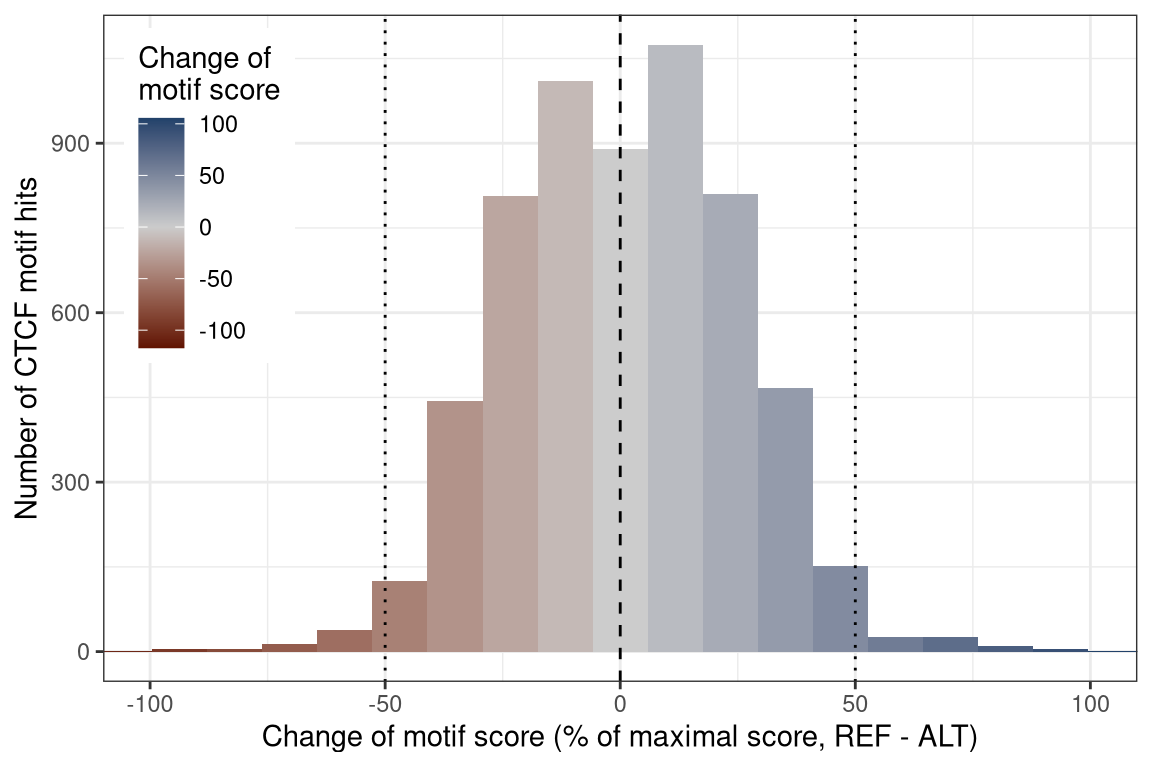
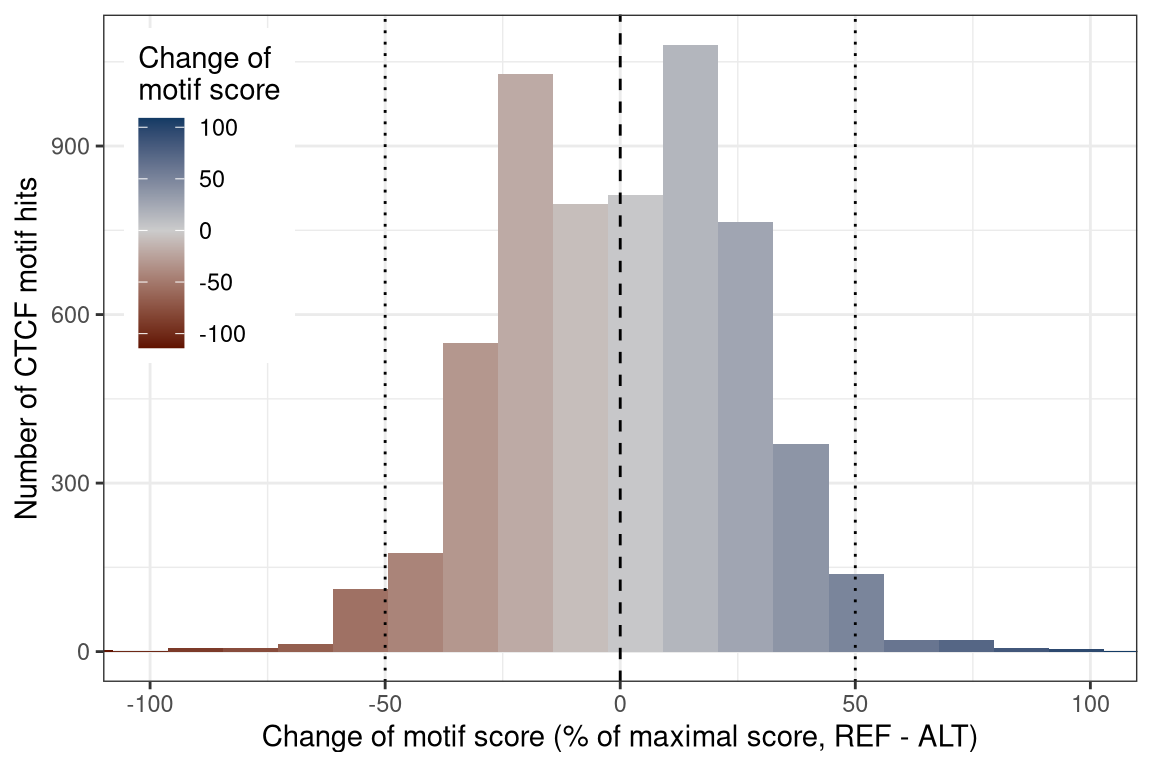
update multiple-modalities to use SingleMoleculeGenomicsIO

diff --git a/docs/multiple-modalities.html b/docs/multiple-modalities.html
@@ -278,7 +278,7 @@ div.csl-indent {
 <summary>Show/hide code</summary>
 <div class="sourceCode cell-code" id="cb1"><pre class="sourceCode r code-with-copy"><code class="sourceCode r"><span id="cb1-1"><a href="#cb1-1" aria-hidden="true" tabindex="-1"></a><span class="co"># Packages</span></span>
 <span id="cb1-2"><a href="#cb1-2" aria-hidden="true" tabindex="-1"></a>BSgenomeName <span class="ot">&lt;-</span> <span class="st">"BSgenome.Mmusculus.GENCODE.GRCm39.gencodeM34"</span></span>
-<span id="cb1-3"><a href="#cb1-3" aria-hidden="true" tabindex="-1"></a><span class="fu">library</span>(footprintR)</span>
+<span id="cb1-3"><a href="#cb1-3" aria-hidden="true" tabindex="-1"></a><span class="fu">library</span>(SingleMoleculeGenomicsIO)</span>
 <span id="cb1-4"><a href="#cb1-4" aria-hidden="true" tabindex="-1"></a><span class="fu">library</span>(ggplot2)</span>
 <span id="cb1-5"><a href="#cb1-5" aria-hidden="true" tabindex="-1"></a><span class="fu">library</span>(patchwork)</span>
 <span id="cb1-6"><a href="#cb1-6" aria-hidden="true" tabindex="-1"></a><span class="fu">library</span>(dplyr)</span>
@@ -735,140 +735,141 @@ Figure&nbsp;8.4
 <div class="sourceCode cell-code" id="cb11"><pre class="sourceCode r code-with-copy"><code class="sourceCode r"><span id="cb11-1"><a href="#cb11-1" aria-hidden="true" tabindex="-1"></a>sessioninfo<span class="sc">::</span><span class="fu">session_info</span>(<span class="at">info =</span> <span class="st">"packages"</span>)</span></code><button title="Copy to Clipboard" class="code-copy-button"><i class="bi"></i></button></pre></div>
 </details>
 <div class="cell-output cell-output-stdout">
-<pre><code>═ Session info ═══════════════════════════════════════════════════════════════
-─ Packages ───────────────────────────────────────────────────────────────────
+<pre><code>═ Session info ═══════════════════════════════════════════════════════════════════════════════════════════════════════
+─ Packages ───────────────────────────────────────────────────────────────────────────────────────────────────────────
  package                                      * version   date (UTC) lib source
- abind                                        * 1.4-8     2024-09-12 [1] CRAN (R 4.5.0)
- AnnotationDbi                                  1.70.0    2025-04-15 [1] Bioconductor 3.21 (R 4.5.0)
- backports                                      1.5.0     2024-05-23 [1] CRAN (R 4.5.0)
- base64enc                                      0.1-3     2015-07-28 [1] CRAN (R 4.5.0)
- Biobase                                      * 2.68.0    2025-04-15 [1] Bioconductor 3.21 (R 4.5.0)
- BiocFileCache                                * 2.16.0    2025-04-15 [1] Bioconductor 3.21 (R 4.5.0)
- BiocGenerics                                 * 0.54.0    2025-04-15 [1] Bioconductor 3.21 (R 4.5.0)
- BiocIO                                       * 1.18.0    2025-04-15 [1] Bioconductor 3.21 (R 4.5.0)
- BiocParallel                                   1.42.1    2025-06-01 [1] Bioconductor 3.21 (R 4.5.0)
- Biostrings                                   * 2.76.0    2025-04-15 [1] Bioconductor 3.21 (R 4.5.0)
- bit                                            4.6.0     2025-03-06 [1] CRAN (R 4.5.0)
- bit64                                          4.6.0-1   2025-01-16 [1] CRAN (R 4.5.0)
- bitops                                         1.0-9     2024-10-03 [1] CRAN (R 4.5.0)
- blob                                           1.2.4     2023-03-17 [1] CRAN (R 4.5.0)
- broom                                          1.0.8     2025-03-28 [1] CRAN (R 4.5.0)
- BSgenome                                     * 1.76.0    2025-04-15 [1] Bioconductor 3.21 (R 4.5.0)
- BSgenome.Mmusculus.GENCODE.GRCm39.gencodeM34 * 0.1.0     2025-04-17 [1] Bioconductor
- cachem                                         1.1.0     2024-05-16 [1] CRAN (R 4.5.0)
- car                                            3.1-3     2024-09-27 [1] CRAN (R 4.5.0)
- carData                                        3.0-5     2022-01-06 [1] CRAN (R 4.5.0)
- caTools                                        1.18.3    2024-09-04 [1] CRAN (R 4.5.0)
- checkmate                                      2.3.2     2024-07-29 [1] CRAN (R 4.5.0)
- cli                                            3.6.5     2025-04-23 [1] CRAN (R 4.5.0)
- cluster                                        2.1.8.1   2025-03-12 [2] CRAN (R 4.5.0)
- codetools                                      0.2-20    2024-03-31 [2] CRAN (R 4.5.0)
- colorspace                                     2.1-1     2024-07-26 [1] CRAN (R 4.5.0)
- crayon                                         1.5.3     2024-06-20 [1] CRAN (R 4.5.0)
- curl                                           6.3.0     2025-06-06 [1] CRAN (R 4.5.0)
- data.table                                     1.17.4    2025-05-26 [1] CRAN (R 4.5.0)
- DBI                                            1.2.3     2024-06-02 [1] CRAN (R 4.5.0)
- dbplyr                                       * 2.5.0     2024-03-19 [1] CRAN (R 4.5.0)
- DelayedArray                                   0.34.1    2025-04-17 [1] Bioconductor 3.21 (R 4.5.0)
- dichromat                                      2.0-0.1   2022-05-02 [1] CRAN (R 4.5.0)
- digest                                         0.6.37    2024-08-19 [1] CRAN (R 4.5.0)
- DirichletMultinomial                           1.50.0    2025-04-15 [1] Bioconductor 3.21 (R 4.5.0)
- dplyr                                        * 1.1.4     2023-11-17 [1] CRAN (R 4.5.0)
- evaluate                                       1.0.3     2025-01-10 [1] CRAN (R 4.5.0)
- farver                                         2.1.2     2024-05-13 [1] CRAN (R 4.5.0)
- fastmap                                        1.2.0     2024-05-15 [1] CRAN (R 4.5.0)
- filelock                                       1.0.3     2023-12-11 [1] CRAN (R 4.5.0)
- footprintR                                   * 0.3.5     2025-06-04 [1] Github (fmicompbio/footprintR@612f713)
- forcats                                      * 1.0.0     2023-01-29 [1] CRAN (R 4.5.0)
- foreign                                        0.8-90    2025-03-31 [2] CRAN (R 4.5.0)
- Formula                                        1.2-5     2023-02-24 [1] CRAN (R 4.5.0)
- generics                                     * 0.1.4     2025-05-09 [1] CRAN (R 4.5.0)
- GenomeInfoDb                                 * 1.44.0    2025-04-15 [1] Bioconductor 3.21 (R 4.5.0)
- GenomeInfoDbData                               1.2.14    2025-04-17 [1] Bioconductor
- GenomicAlignments                            * 1.44.0    2025-04-15 [1] Bioconductor 3.21 (R 4.5.0)
- GenomicFeatures                                1.60.0    2025-04-15 [1] Bioconductor 3.21 (R 4.5.0)
- GenomicRanges                                * 1.60.0    2025-04-15 [1] Bioconductor 3.21 (R 4.5.0)
- ggforce                                        0.4.2     2024-02-19 [1] CRAN (R 4.5.0)
- ggplot2                                      * 3.5.2     2025-04-09 [1] CRAN (R 4.5.0)
- ggpubr                                       * 0.6.0     2023-02-10 [1] CRAN (R 4.5.0)
- ggsignif                                       0.6.4     2022-10-13 [1] CRAN (R 4.5.0)
- glue                                           1.8.0     2024-09-30 [1] CRAN (R 4.5.0)
- gridExtra                                      2.3       2017-09-09 [1] CRAN (R 4.5.0)
- gtable                                         0.3.6     2024-10-25 [1] CRAN (R 4.5.0)
- gtools                                         3.9.5     2023-11-20 [1] CRAN (R 4.5.0)
- Hmisc                                        * 5.2-3     2025-03-16 [1] CRAN (R 4.5.0)
- htmlTable                                      2.4.3     2024-07-21 [1] CRAN (R 4.5.0)
- htmltools                                      0.5.8.1   2024-04-04 [1] CRAN (R 4.5.0)
- htmlwidgets                                    1.6.4     2023-12-06 [1] CRAN (R 4.5.0)
- httr                                           1.4.7     2023-08-15 [1] CRAN (R 4.5.0)
- IRanges                                      * 2.42.0    2025-04-15 [1] Bioconductor 3.21 (R 4.5.0)
- JASPAR2024                                   * 0.99.7    2024-11-13 [1] Bioconductor 3.21 (R 4.5.0)
- jsonlite                                       2.0.0     2025-03-27 [1] CRAN (R 4.5.0)
- KEGGREST                                       1.48.0    2025-04-15 [1] Bioconductor 3.21 (R 4.5.0)
- knitr                                          1.50      2025-03-16 [1] CRAN (R 4.5.0)
- labeling                                       0.4.3     2023-08-29 [1] CRAN (R 4.5.0)
- lattice                                        0.22-7    2025-04-02 [1] CRAN (R 4.5.0)
- lifecycle                                      1.0.4     2023-11-07 [1] CRAN (R 4.5.0)
- magrittr                                       2.0.3     2022-03-30 [1] CRAN (R 4.5.0)
- MASS                                           7.3-65    2025-02-28 [2] CRAN (R 4.5.0)
- Matrix                                       * 1.7-3     2025-03-11 [2] CRAN (R 4.5.0)
- MatrixGenerics                               * 1.20.0    2025-04-15 [1] Bioconductor 3.21 (R 4.5.0)
- matrixStats                                  * 1.5.0     2025-01-07 [1] CRAN (R 4.5.0)
- memoise                                        2.0.1     2021-11-26 [1] CRAN (R 4.5.0)
- nnet                                           7.3-20    2025-01-01 [2] CRAN (R 4.5.0)
- patchwork                                    * 1.3.0     2024-09-16 [1] CRAN (R 4.5.0)
- pillar                                         1.10.2    2025-04-05 [1] CRAN (R 4.5.0)
- pkgconfig                                      2.0.3     2019-09-22 [1] CRAN (R 4.5.0)
- png                                            0.1-8     2022-11-29 [1] CRAN (R 4.5.0)
- polyclip                                       1.10-7    2024-07-23 [1] CRAN (R 4.5.0)
- purrr                                          1.0.4     2025-02-05 [1] CRAN (R 4.5.0)
- pwalign                                        1.4.0     2025-04-15 [1] Bioconductor 3.21 (R 4.5.0)
- R6                                             2.6.1     2025-02-15 [1] CRAN (R 4.5.0)
- RColorBrewer                                   1.1-3     2022-04-03 [1] CRAN (R 4.5.0)
- Rcpp                                           1.0.14    2025-01-12 [1] CRAN (R 4.5.0)
- RCurl                                          1.98-1.17 2025-03-22 [1] CRAN (R 4.5.0)
- restfulr                                       0.0.15    2022-06-16 [1] CRAN (R 4.5.0)
- rjson                                          0.2.23    2024-09-16 [1] CRAN (R 4.5.0)
- rlang                                          1.1.6     2025-04-11 [1] CRAN (R 4.5.0)
- rmarkdown                                      2.29      2024-11-04 [1] CRAN (R 4.5.0)
- rpart                                          4.1.24    2025-01-07 [2] CRAN (R 4.5.0)
- Rsamtools                                    * 2.24.0    2025-04-15 [1] Bioconductor 3.21 (R 4.5.0)
- RSQLite                                        2.4.1     2025-06-08 [1] CRAN (R 4.5.0)
- rstatix                                        0.7.2     2023-02-01 [1] CRAN (R 4.5.0)
- rstudioapi                                     0.17.1    2024-10-22 [1] CRAN (R 4.5.0)
- rtracklayer                                  * 1.68.0    2025-04-15 [1] Bioconductor 3.21 (R 4.5.0)
- S4Arrays                                     * 1.8.1     2025-06-01 [1] Bioconductor 3.21 (R 4.5.0)
- S4Vectors                                    * 0.46.0    2025-04-15 [1] Bioconductor 3.21 (R 4.5.0)
- scales                                         1.4.0     2025-04-24 [1] CRAN (R 4.5.0)
- seqLogo                                        1.74.0    2025-04-15 [1] Bioconductor 3.21 (R 4.5.0)
- sessioninfo                                    1.2.3     2025-02-05 [1] CRAN (R 4.5.0)
- SparseArray                                  * 1.8.0     2025-04-15 [1] Bioconductor 3.21 (R 4.5.0)
- stringdist                                   * 0.9.15    2025-01-10 [1] CRAN (R 4.5.0)
- stringi                                        1.8.7     2025-03-27 [1] CRAN (R 4.5.0)
- stringr                                        1.5.1     2023-11-14 [1] CRAN (R 4.5.0)
- SummarizedExperiment                         * 1.38.1    2025-04-30 [1] Bioconductor 3.21 (R 4.5.0)
- TFBSTools                                    * 1.46.0    2025-04-15 [1] Bioconductor 3.21 (R 4.5.0)
- TFMPvalue                                      0.0.9     2022-10-21 [1] CRAN (R 4.5.0)
- tibble                                         3.3.0     2025-06-08 [1] CRAN (R 4.5.0)
- tidyr                                          1.3.1     2024-01-24 [1] CRAN (R 4.5.0)
- tidyselect                                     1.2.1     2024-03-11 [1] CRAN (R 4.5.0)
- tweenr                                         2.0.3     2024-02-26 [1] CRAN (R 4.5.0)
- UCSC.utils                                     1.4.0     2025-04-15 [1] Bioconductor 3.21 (R 4.5.0)
- universalmotif                               * 1.26.2    2025-04-23 [1] Bioconductor 3.21 (R 4.5.0)
- VariantAnnotation                            * 1.54.1    2025-05-11 [1] Bioconductor 3.21 (R 4.5.0)
- vctrs                                          0.6.5     2023-12-01 [1] CRAN (R 4.5.0)
- withr                                          3.0.2     2024-10-28 [1] CRAN (R 4.5.0)
- xfun                                           0.52      2025-04-02 [1] CRAN (R 4.5.0)
- XML                                            3.99-0.18 2025-01-01 [1] CRAN (R 4.5.0)
- XVector                                      * 0.48.0    2025-04-15 [1] Bioconductor 3.21 (R 4.5.0)
- yaml                                           2.3.10    2024-07-26 [1] CRAN (R 4.5.0)
- zoo                                            1.8-14    2025-04-10 [1] CRAN (R 4.5.0)
+ abind                                        * 1.4-8     2024-09-12 [1] CRAN (R 4.5.1)
+ AnnotationDbi                                  1.72.0    2025-10-29 [1] Bioconductor 3.22 (R 4.5.1)
+ backports                                      1.5.0     2024-05-23 [1] CRAN (R 4.5.1)
+ base64enc                                      0.1-3     2015-07-28 [1] CRAN (R 4.5.1)
+ Biobase                                      * 2.70.0    2025-10-29 [1] Bioconductor 3.22 (R 4.5.1)
+ BiocFileCache                                * 3.0.0     2025-10-29 [1] Bioconductor 3.22 (R 4.5.1)
+ BiocGenerics                                 * 0.56.0    2025-10-29 [1] Bioconductor 3.22 (R 4.5.1)
+ BiocIO                                       * 1.20.0    2025-10-29 [1] Bioconductor 3.22 (R 4.5.1)
+ BiocParallel                                   1.44.0    2025-10-29 [1] Bioconductor 3.22 (R 4.5.1)
+ Biostrings                                   * 2.78.0    2025-10-29 [1] Bioconductor 3.22 (R 4.5.1)
+ bit                                            4.6.0     2025-03-06 [1] CRAN (R 4.5.1)
+ bit64                                          4.6.0-1   2025-01-16 [1] CRAN (R 4.5.1)
+ bitops                                         1.0-9     2024-10-03 [1] CRAN (R 4.5.1)
+ blob                                           1.3.0     2026-01-14 [1] CRAN (R 4.5.2)
+ broom                                          1.0.11    2025-12-04 [1] CRAN (R 4.5.2)
+ BSgenome                                     * 1.78.0    2025-10-29 [1] Bioconductor 3.22 (R 4.5.1)
+ BSgenome.Mmusculus.GENCODE.GRCm39.gencodeM34 * 0.1.0     2025-10-31 [1] Bioconductor
+ cachem                                         1.1.0     2024-05-16 [1] CRAN (R 4.5.1)
+ car                                            3.1-3     2024-09-27 [1] CRAN (R 4.5.1)
+ carData                                        3.0-5     2022-01-06 [1] CRAN (R 4.5.1)
+ caTools                                        1.18.3    2024-09-04 [1] CRAN (R 4.5.1)
+ checkmate                                      2.3.3     2025-08-18 [1] CRAN (R 4.5.1)
+ cigarillo                                      1.0.0     2025-10-29 [1] Bioconductor 3.22 (R 4.5.1)
+ cli                                            3.6.5     2025-04-23 [1] CRAN (R 4.5.1)
+ cluster                                        2.1.8.1   2025-03-12 [2] CRAN (R 4.5.2)
+ codetools                                      0.2-20    2024-03-31 [2] CRAN (R 4.5.2)
+ colorspace                                     2.1-2     2025-09-22 [1] CRAN (R 4.5.1)
+ crayon                                         1.5.3     2024-06-20 [1] CRAN (R 4.5.1)
+ curl                                           7.0.0     2025-08-19 [1] CRAN (R 4.5.1)
+ data.table                                     1.18.0    2025-12-24 [1] CRAN (R 4.5.2)
+ DBI                                            1.2.3     2024-06-02 [1] CRAN (R 4.5.1)
+ dbplyr                                       * 2.5.1     2025-09-10 [1] CRAN (R 4.5.1)
+ DelayedArray                                   0.36.0    2025-10-29 [1] Bioconductor 3.22 (R 4.5.1)
+ dichromat                                      2.0-0.1   2022-05-02 [1] CRAN (R 4.5.1)
+ digest                                         0.6.39    2025-11-19 [1] CRAN (R 4.5.2)
+ DirichletMultinomial                           1.52.0    2025-10-29 [1] Bioconductor 3.22 (R 4.5.1)
+ dplyr                                        * 1.1.4     2023-11-17 [1] CRAN (R 4.5.1)
+ evaluate                                       1.0.5     2025-08-27 [1] CRAN (R 4.5.1)
+ farver                                         2.1.2     2024-05-13 [1] CRAN (R 4.5.1)
+ fastmap                                        1.2.0     2024-05-15 [1] CRAN (R 4.5.1)
+ filelock                                       1.0.3     2023-12-11 [1] CRAN (R 4.5.1)
+ forcats                                      * 1.0.1     2025-09-25 [1] CRAN (R 4.5.1)
+ foreign                                        0.8-90    2025-03-31 [2] CRAN (R 4.5.2)
+ Formula                                        1.2-5     2023-02-24 [1] CRAN (R 4.5.1)
+ generics                                     * 0.1.4     2025-05-09 [1] CRAN (R 4.5.1)
+ GenomeInfoDb                                 * 1.46.2    2025-12-04 [1] Bioconductor 3.22 (R 4.5.2)
+ GenomicAlignments                            * 1.46.0    2025-10-29 [1] Bioconductor 3.22 (R 4.5.1)
+ GenomicFeatures                                1.62.0    2025-10-29 [1] Bioconductor 3.22 (R 4.5.1)
+ GenomicRanges                                * 1.62.1    2025-12-08 [1] Bioconductor 3.22 (R 4.5.2)
+ ggplot2                                      * 4.0.1     2025-11-14 [1] CRAN (R 4.5.2)
+ ggpubr                                       * 0.6.2     2025-10-17 [1] CRAN (R 4.5.1)
+ ggsignif                                       0.6.4     2022-10-13 [1] CRAN (R 4.5.1)
+ glue                                           1.8.0     2024-09-30 [1] CRAN (R 4.5.1)
+ gridExtra                                      2.3       2017-09-09 [1] CRAN (R 4.5.1)
+ gtable                                         0.3.6     2024-10-25 [1] CRAN (R 4.5.1)
+ gtools                                         3.9.5     2023-11-20 [1] CRAN (R 4.5.1)
+ Hmisc                                        * 5.2-5     2026-01-09 [1] CRAN (R 4.5.2)
+ htmlTable                                      2.4.3     2024-07-21 [1] CRAN (R 4.5.1)
+ htmltools                                      0.5.9     2025-12-04 [1] CRAN (R 4.5.2)
+ htmlwidgets                                    1.6.4     2023-12-06 [1] CRAN (R 4.5.1)
+ httr                                           1.4.7     2023-08-15 [1] CRAN (R 4.5.1)
+ httr2                                          1.2.2     2025-12-08 [1] CRAN (R 4.5.2)
+ IRanges                                      * 2.44.0    2025-10-29 [1] Bioconductor 3.22 (R 4.5.1)
+ JASPAR2024                                   * 0.99.7    2024-11-13 [1] Bioconductor 3.21 (R 4.5.2)
+ jsonlite                                       2.0.0     2025-03-27 [1] CRAN (R 4.5.1)
+ KEGGREST                                       1.50.0    2025-10-29 [1] Bioconductor 3.22 (R 4.5.1)
+ knitr                                          1.51      2025-12-20 [1] CRAN (R 4.5.2)
+ labeling                                       0.4.3     2023-08-29 [1] CRAN (R 4.5.1)
+ lattice                                        0.22-7    2025-04-02 [2] CRAN (R 4.5.2)
+ lifecycle                                      1.0.5     2026-01-08 [1] CRAN (R 4.5.2)
+ magrittr                                       2.0.4     2025-09-12 [1] CRAN (R 4.5.1)
+ MASS                                           7.3-65    2025-02-28 [2] CRAN (R 4.5.2)
+ Matrix                                       * 1.7-4     2025-08-28 [2] CRAN (R 4.5.2)
+ MatrixGenerics                               * 1.22.0    2025-10-29 [1] Bioconductor 3.22 (R 4.5.1)
+ matrixStats                                  * 1.5.0     2025-01-07 [1] CRAN (R 4.5.1)
+ memoise                                        2.0.1     2021-11-26 [1] CRAN (R 4.5.1)
+ nnet                                           7.3-20    2025-01-01 [2] CRAN (R 4.5.2)
+ otel                                           0.2.0     2025-08-29 [1] CRAN (R 4.5.1)
+ patchwork                                    * 1.3.2     2025-08-25 [1] CRAN (R 4.5.1)
+ pillar                                         1.11.1    2025-09-17 [1] CRAN (R 4.5.1)
+ pkgconfig                                      2.0.3     2019-09-22 [1] CRAN (R 4.5.1)
+ png                                            0.1-8     2022-11-29 [1] CRAN (R 4.5.1)
+ purrr                                          1.2.1     2026-01-09 [1] CRAN (R 4.5.2)
+ pwalign                                        1.6.0     2025-10-29 [1] Bioconductor 3.22 (R 4.5.1)
+ R6                                             2.6.1     2025-02-15 [1] CRAN (R 4.5.1)
+ rappdirs                                       0.3.4     2026-01-17 [1] CRAN (R 4.5.2)
+ RColorBrewer                                   1.1-3     2022-04-03 [1] CRAN (R 4.5.1)
+ Rcpp                                           1.1.1     2026-01-10 [1] CRAN (R 4.5.2)
+ RCurl                                          1.98-1.17 2025-03-22 [1] CRAN (R 4.5.1)
+ restfulr                                       0.0.16    2025-06-27 [1] CRAN (R 4.5.1)
+ rjson                                          0.2.23    2024-09-16 [1] CRAN (R 4.5.1)
+ rlang                                          1.1.7     2026-01-09 [1] CRAN (R 4.5.2)
+ rmarkdown                                      2.30      2025-09-28 [1] CRAN (R 4.5.1)
+ rpart                                          4.1.24    2025-01-07 [2] CRAN (R 4.5.2)
+ Rsamtools                                    * 2.26.0    2025-10-29 [1] Bioconductor 3.22 (R 4.5.1)
+ RSQLite                                        2.4.5     2025-11-30 [1] CRAN (R 4.5.2)
+ rstatix                                        0.7.3     2025-10-18 [1] CRAN (R 4.5.1)
+ rstudioapi                                     0.18.0    2026-01-16 [1] CRAN (R 4.5.2)
+ rtracklayer                                  * 1.70.1    2025-12-22 [1] Bioconductor 3.22 (R 4.5.2)
+ S4Arrays                                     * 1.10.1    2025-12-02 [1] Github (Bioconductor/S4Arrays@a4cccba)
+ S4Vectors                                    * 0.48.0    2025-10-29 [1] Bioconductor 3.22 (R 4.5.1)
+ S7                                             0.2.1     2025-11-14 [1] CRAN (R 4.5.2)
+ scales                                         1.4.0     2025-04-24 [1] CRAN (R 4.5.1)
+ Seqinfo                                      * 1.0.0     2025-10-29 [1] Bioconductor 3.22 (R 4.5.1)
+ seqLogo                                        1.76.0    2025-10-29 [1] Bioconductor 3.22 (R 4.5.1)
+ sessioninfo                                    1.2.3     2025-02-05 [1] CRAN (R 4.5.1)
+ SingleMoleculeGenomicsIO                     * 0.1.0     2026-01-29 [1] Bioconductor
+ SparseArray                                  * 1.10.8    2025-12-18 [1] Bioconductor 3.22 (R 4.5.2)
+ stringdist                                   * 0.9.17    2026-01-16 [1] CRAN (R 4.5.2)
+ stringi                                        1.8.7     2025-03-27 [1] CRAN (R 4.5.1)
+ stringr                                        1.6.0     2025-11-04 [1] CRAN (R 4.5.2)
+ SummarizedExperiment                         * 1.40.0    2025-10-29 [1] Bioconductor 3.22 (R 4.5.1)
+ TFBSTools                                    * 1.48.0    2025-10-29 [1] Bioconductor 3.22 (R 4.5.1)
+ TFMPvalue                                      1.0.0     2026-01-19 [1] CRAN (R 4.5.2)
+ tibble                                         3.3.1     2026-01-11 [1] CRAN (R 4.5.2)
+ tidyr                                          1.3.2     2025-12-19 [1] CRAN (R 4.5.2)
+ tidyselect                                     1.2.1     2024-03-11 [1] CRAN (R 4.5.1)
+ UCSC.utils                                     1.6.1     2025-12-11 [1] Bioconductor 3.22 (R 4.5.2)
+ universalmotif                               * 1.28.0    2025-10-30 [1] Bioconductor 3.22 (R 4.5.2)
+ VariantAnnotation                            * 1.56.0    2025-10-29 [1] Bioconductor 3.22 (R 4.5.1)
+ vctrs                                          0.7.1     2026-01-23 [1] CRAN (R 4.5.2)
+ withr                                          3.0.2     2024-10-28 [1] CRAN (R 4.5.1)
+ xfun                                           0.56      2026-01-18 [1] CRAN (R 4.5.2)
+ XML                                            3.99-0.20 2025-11-08 [1] CRAN (R 4.5.2)
+ XVector                                      * 0.50.0    2025-10-29 [1] Bioconductor 3.22 (R 4.5.1)
+ yaml                                           2.3.12    2025-12-10 [1] CRAN (R 4.5.2)
 
- [1] /tungstenfs/groups/gbioinfo/Appz/R/BioC/R-4.5-release-foss-2024.05_BioC-3.21-release-foss-2024.05
- [2] /tachyon/groups/gbioinfo/Appz/easybuild/software/R/4.5.0-foss-2024.05/lib64/R/library
+ [1] /tachyon/groups/gbioinfo/Appz/R/BioC/R-4.5-release-foss-2024.05_BioC-3.22-release-foss-2024.05
+ [2] /tachyon/groups/gbioinfo/Appz/easybuild/software/R/4.5.2-foss-2024.05/lib64/R/library
  * ── Packages attached to the search path.
 
-──────────────────────────────────────────────────────────────────────────────</code></pre>
+──────────────────────────────────────────────────────────────────────────────────────────────────────────────────────</code></pre>
 </div>
 </div>
 </details>
@@ -1395,7 +1396,7 @@ window.document.addEventListener("DOMContentLoaded", function (event) {
 <span id="cb13-28"><a href="#cb13-28" aria-hidden="true" tabindex="-1"></a></span>
 <span id="cb13-29"><a href="#cb13-29" aria-hidden="true" tabindex="-1"></a><span class="co"># Packages</span></span>
 <span id="cb13-30"><a href="#cb13-30" aria-hidden="true" tabindex="-1"></a>BSgenomeName <span class="ot">&lt;-</span> <span class="st">"BSgenome.Mmusculus.GENCODE.GRCm39.gencodeM34"</span></span>
-<span id="cb13-31"><a href="#cb13-31" aria-hidden="true" tabindex="-1"></a><span class="fu">library</span>(footprintR)</span>
+<span id="cb13-31"><a href="#cb13-31" aria-hidden="true" tabindex="-1"></a><span class="fu">library</span>(SingleMoleculeGenomicsIO)</span>
 <span id="cb13-32"><a href="#cb13-32" aria-hidden="true" tabindex="-1"></a><span class="fu">library</span>(ggplot2)</span>
 <span id="cb13-33"><a href="#cb13-33" aria-hidden="true" tabindex="-1"></a><span class="fu">library</span>(patchwork)</span>
 <span id="cb13-34"><a href="#cb13-34" aria-hidden="true" tabindex="-1"></a><span class="fu">library</span>(dplyr)</span>
